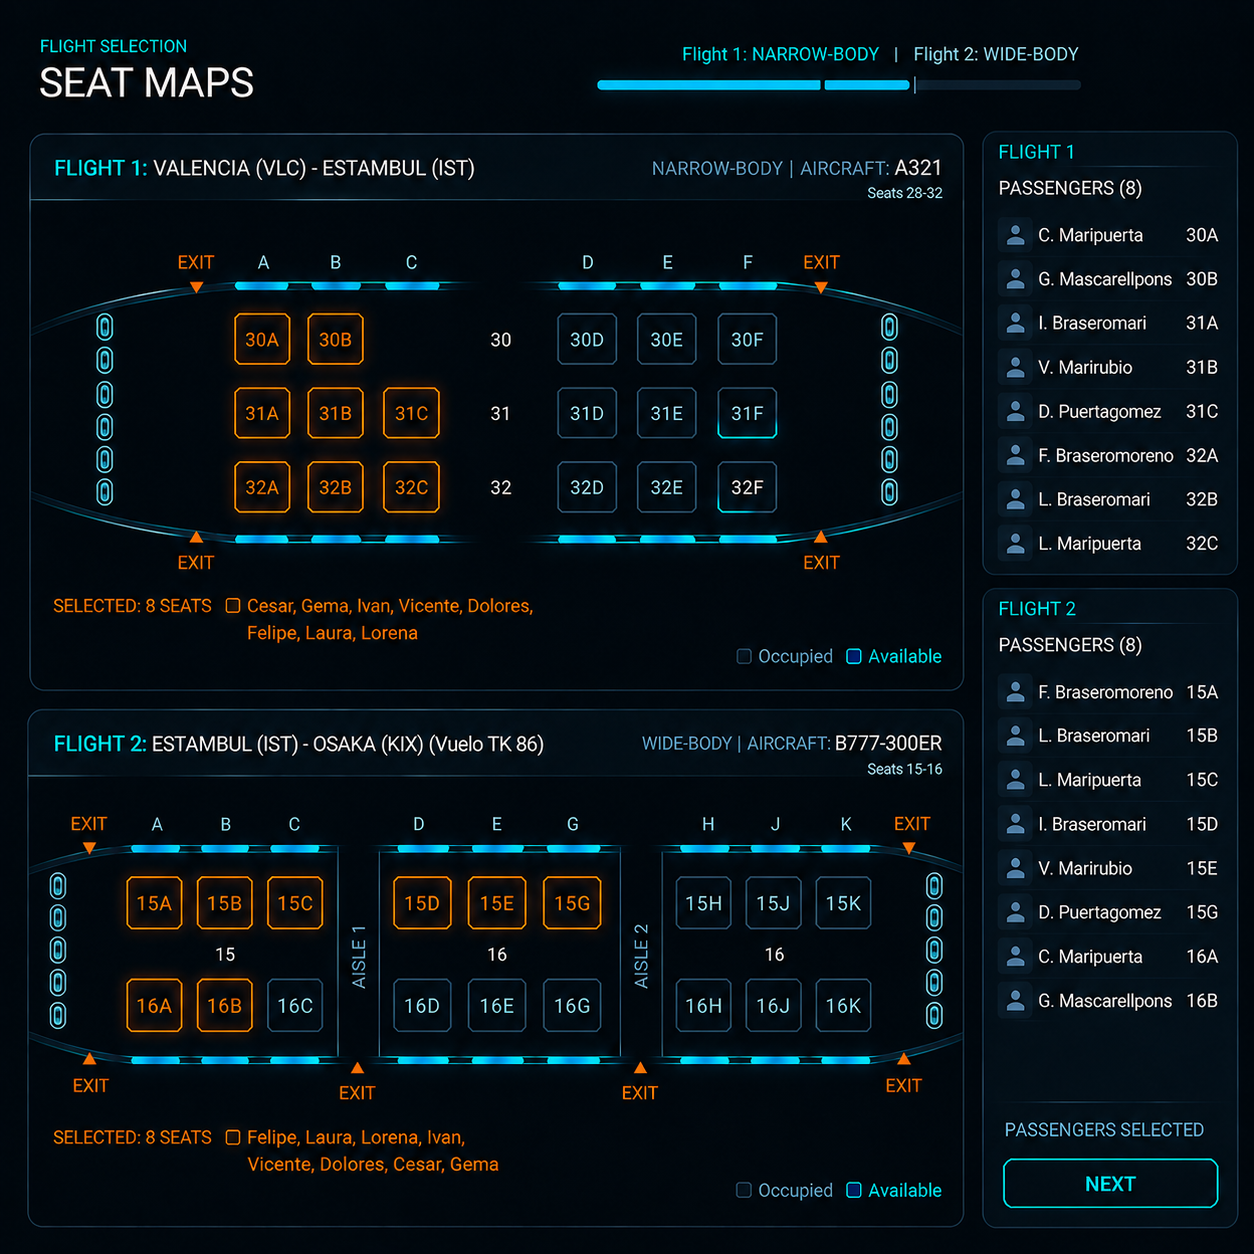
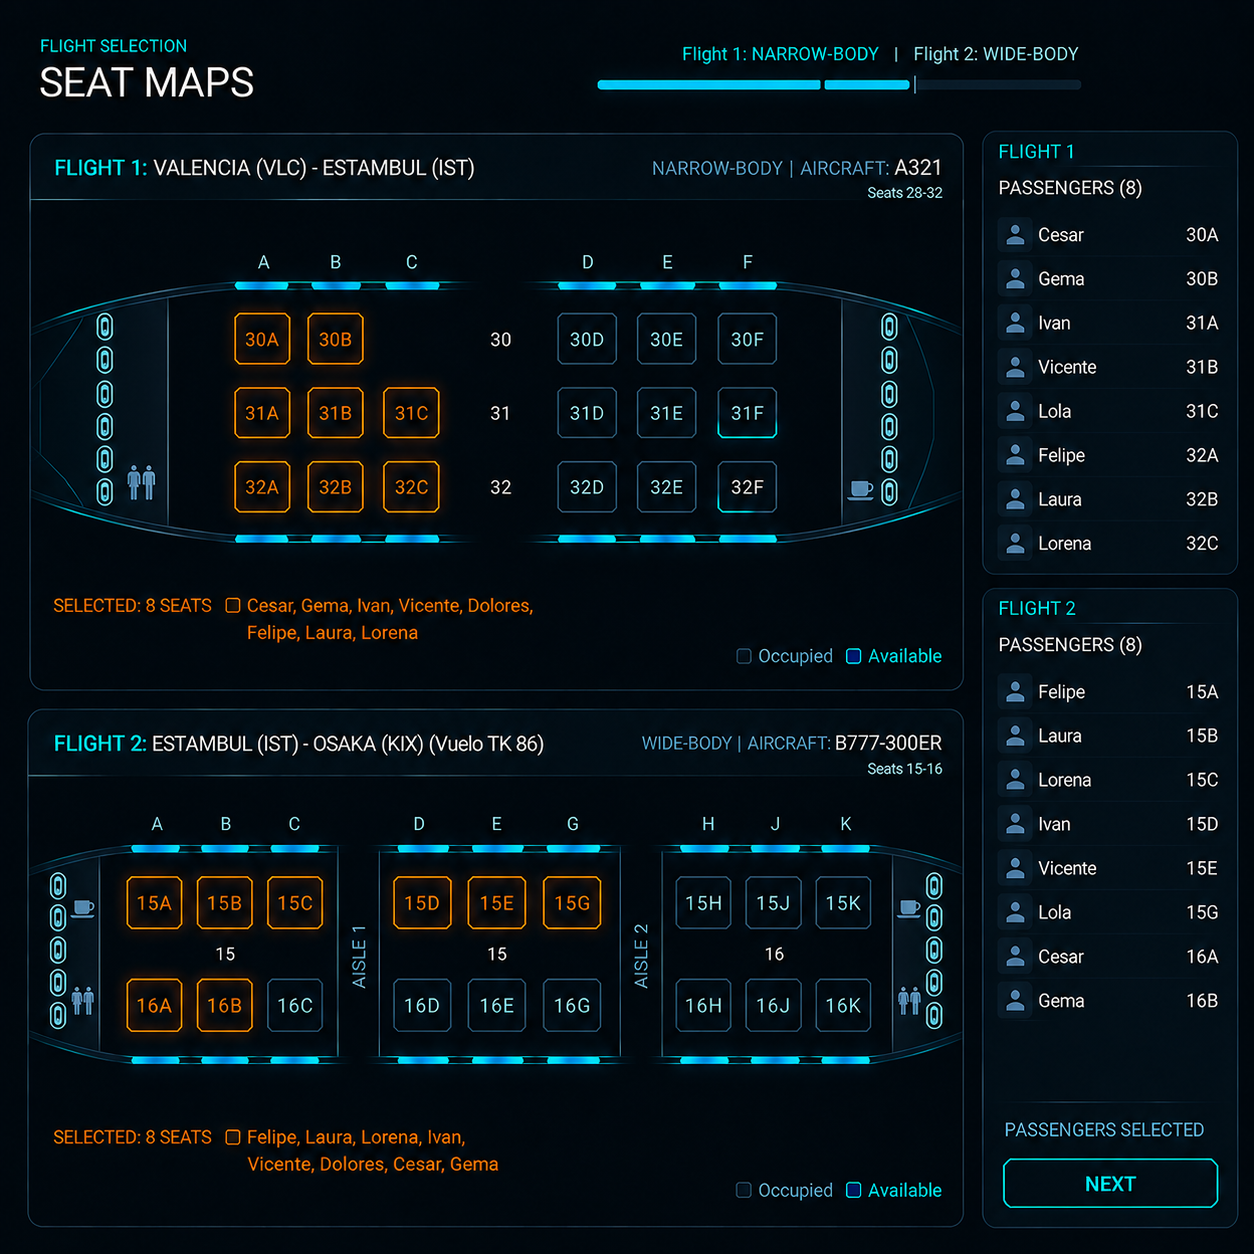
feat: add password protection (Family/Japan2026)

diff --git a/style.css b/style.css
@@ -1,4 +1,149 @@
 /* ==========================================
+   SISTEMA DE AUTENTICACIÓN
+   ========================================== */
+.login-overlay {
+    position: fixed;
+    top: 0;
+    left: 0;
+    width: 100%;
+    height: 100%;
+    background: radial-gradient(circle at center, #1e293b 0%, #0f172a 100%);
+    z-index: 10000;
+    display: flex;
+    align-items: center;
+    justify-content: center;
+    transition: opacity 0.5s ease, visibility 0.5s ease;
+}
+
+.login-overlay.hidden {
+    opacity: 0;
+    visibility: hidden;
+    pointer-events: none;
+}
+
+.login-box {
+    background: rgba(15, 23, 42, 0.8);
+    backdrop-filter: blur(20px);
+    border: 1px solid var(--neon-blue);
+    padding: 40px;
+    border-radius: 24px;
+    width: 90%;
+    max-width: 400px;
+    text-align: center;
+    box-shadow: 0 0 40px rgba(0, 243, 255, 0.2);
+    animation: slideUpFade 0.5s ease-out;
+}
+
+.login-logo {
+    font-size: 2rem;
+    font-weight: 800;
+    color: white;
+    margin-bottom: 20px;
+    display: flex;
+    align-items: center;
+    justify-content: center;
+    gap: 12px;
+}
+
+.login-logo i {
+    color: var(--neon-blue);
+    filter: drop-shadow(0 0 8px var(--neon-blue));
+}
+
+.login-box h2 {
+    font-size: 1.5rem;
+    margin-bottom: 8px;
+    color: white;
+}
+
+.login-box p {
+    color: var(--text-secondary);
+    font-size: 0.9rem;
+    margin-bottom: 30px;
+}
+
+.input-group {
+    position: relative;
+    margin-bottom: 20px;
+}
+
+.input-group i {
+    position: absolute;
+    left: 15px;
+    top: 50%;
+    transform: translateY(-50%);
+    color: var(--neon-blue);
+    opacity: 0.7;
+}
+
+.input-group input {
+    width: 100%;
+    background: rgba(255, 255, 255, 0.05);
+    border: 1px solid rgba(255, 255, 255, 0.1);
+    padding: 14px 14px 14px 45px;
+    border-radius: 12px;
+    color: white;
+    font-size: 1rem;
+    transition: all 0.3s ease;
+}
+
+.input-group input:focus {
+    background: rgba(255, 255, 255, 0.08);
+    border-color: var(--neon-blue);
+    outline: none;
+    box-shadow: 0 0 15px rgba(0, 243, 255, 0.2);
+}
+
+.login-btn {
+    width: 100%;
+    background: linear-gradient(135deg, var(--neon-blue), var(--neon-purple));
+    border: none;
+    padding: 16px;
+    border-radius: 12px;
+    color: #0f172a;
+    font-weight: 800;
+    font-size: 1rem;
+    cursor: pointer;
+    display: flex;
+    align-items: center;
+    justify-content: center;
+    gap: 10px;
+    transition: all 0.3s ease;
+    margin-top: 10px;
+}
+
+.login-btn:hover {
+    transform: translateY(-2px);
+    box-shadow: 0 8px 25px rgba(0, 243, 255, 0.4);
+}
+
+.login-error {
+    margin-top: 20px;
+    color: var(--danger);
+    font-size: 0.9rem;
+    display: flex;
+    align-items: center;
+    justify-content: center;
+    gap: 8px;
+    animation: shake 0.4s ease-in-out;
+}
+
+@keyframes shake {
+    0%, 100% { transform: translateX(0); }
+    25% { transform: translateX(-5px); }
+    75% { transform: translateX(5px); }
+}
+
+/* Ocultar contenido hasta autenticación */
+body.auth-hidden .sidebar,
+body.auth-hidden .center-stage,
+body.auth-hidden .right-panel,
+body.auth-hidden .mobile-nav-toggle,
+body.auth-hidden .mobile-hud-toggle {
+    display: none !important;
+}
+
+/* ==========================================
    REDISEÑO MOBILE-FIRST - JAPÓN 2026
    ========================================== */
 

diff --git a/script_engine.js b/script_engine.js
@@ -1,4 +1,45 @@
 /* ==========================================
+   SISTEMA DE AUTENTICACIÓN (LOGIN)
+   ========================================== */
+window.checkLogin = function() {
+    const user = document.getElementById('username').value;
+    const pass = document.getElementById('password').value;
+    const errorMsg = document.getElementById('login-error');
+    
+    if (user === 'Family' && pass === 'Japan2026') {
+        localStorage.setItem('auth_session', 'authenticated_' + Date.now());
+        document.getElementById('login-overlay').classList.add('hidden');
+        document.body.classList.remove('auth-hidden');
+        console.log('Autenticación completada');
+    } else {
+        errorMsg.style.display = 'flex';
+        // Animación de error en la caja
+        const box = document.querySelector('.login-box');
+        box.style.animation = 'none';
+        box.offsetHeight; // trigger reflow
+        box.style.animation = 'shake 0.4s ease-in-out';
+    }
+};
+
+(function initAuth() {
+    // Comprobar sesión antes de que el DOM esté listo para evitar parpadeos si es posible
+    const session = localStorage.getItem('auth_session');
+    if (session) {
+        // Usar una clase en el HTML para ocultar/mostrar es más eficiente
+        document.documentElement.classList.add('is-authenticated');
+    }
+    
+    document.addEventListener('DOMContentLoaded', () => {
+        const session = localStorage.getItem('auth_session');
+        if (session) {
+            const overlay = document.getElementById('login-overlay');
+            if (overlay) overlay.classList.add('hidden');
+            document.body.classList.remove('auth-hidden');
+        }
+    });
+})();
+
+/* ==========================================
    JAPÓN 2026 - GUÍA MAESTRA (TEXTO ÍNTEGRO)
    ========================================== */
 // --- MOTOR GRÁFICO ---

diff --git a/index.html b/index.html
@@ -19,8 +19,39 @@
     <link rel="stylesheet" href="style.css">
 </head>
 
-<body>
+<body class="auth-hidden">
+    <!-- Overlay de Inicio de Sesión -->
+    <div id="login-overlay" class="login-overlay">
+        <div class="login-box">
+            <div class="login-logo">
+                <i class="fa-solid fa-torii-gate"></i>
+                <span>JAPÓN 2026</span>
+            </div>
+            <h2>Acceso al Centro de Mando</h2>
+            <p>Introduce las credenciales para continuar</p>
+            <form id="login-form" onsubmit="event.preventDefault(); window.checkLogin();">
+                <div class="input-group">
+                    <i class="fa-solid fa-user"></i>
+                    <input type="text" id="username" placeholder="Usuario" required autocomplete="username">
+                </div>
+                <div class="input-group">
+                    <i class="fa-solid fa-lock"></i>
+                    <input type="password" id="password" placeholder="Contraseña" required autocomplete="current-password">
+                </div>
+                <button type="submit" class="login-btn">
+                    <span>INICIAR SESIÓN</span>
+                    <i class="fa-solid fa-right-to-bracket"></i>
+                </button>
+                <div id="login-error" class="login-error" style="display: none;">
+                    <i class="fa-solid fa-circle-exclamation"></i>
+                    <span>Credenciales incorrectas</span>
+                </div>
+            </form>
+        </div>
+    </div>
+
     <!-- Overlay para cerrar menú móvil -->
+
     <div class="sidebar-overlay" id="sidebar-overlay"></div>
 
     <!-- Botón toggle para navegación móvil -->
